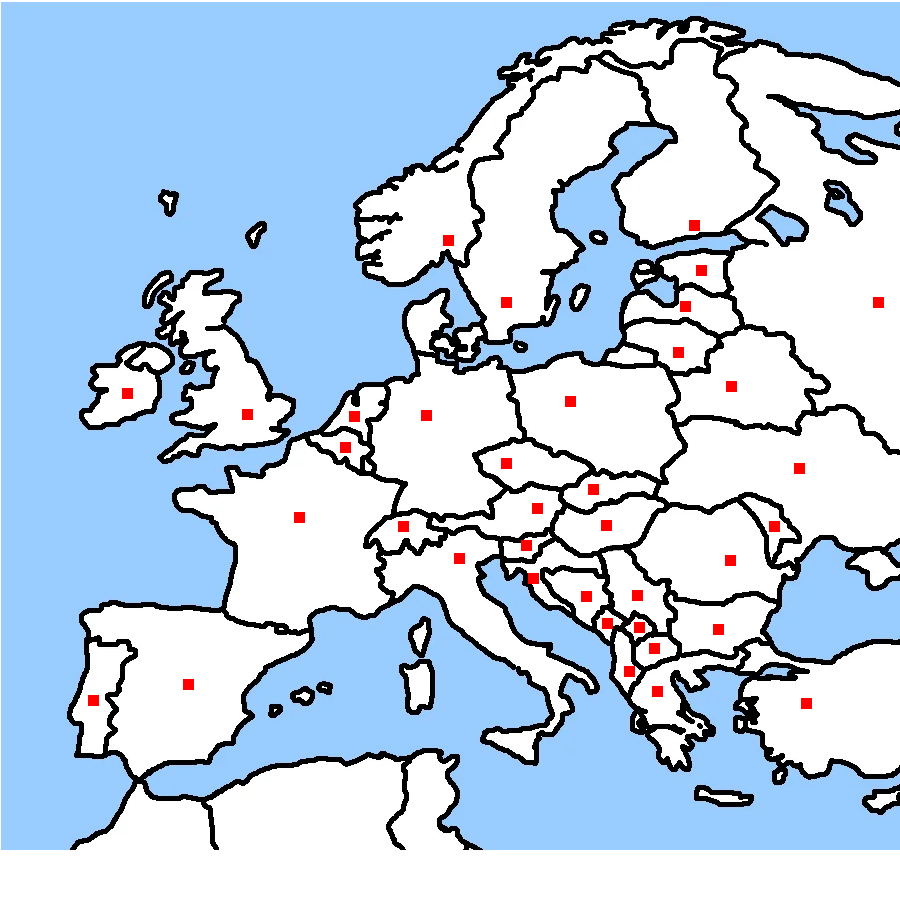
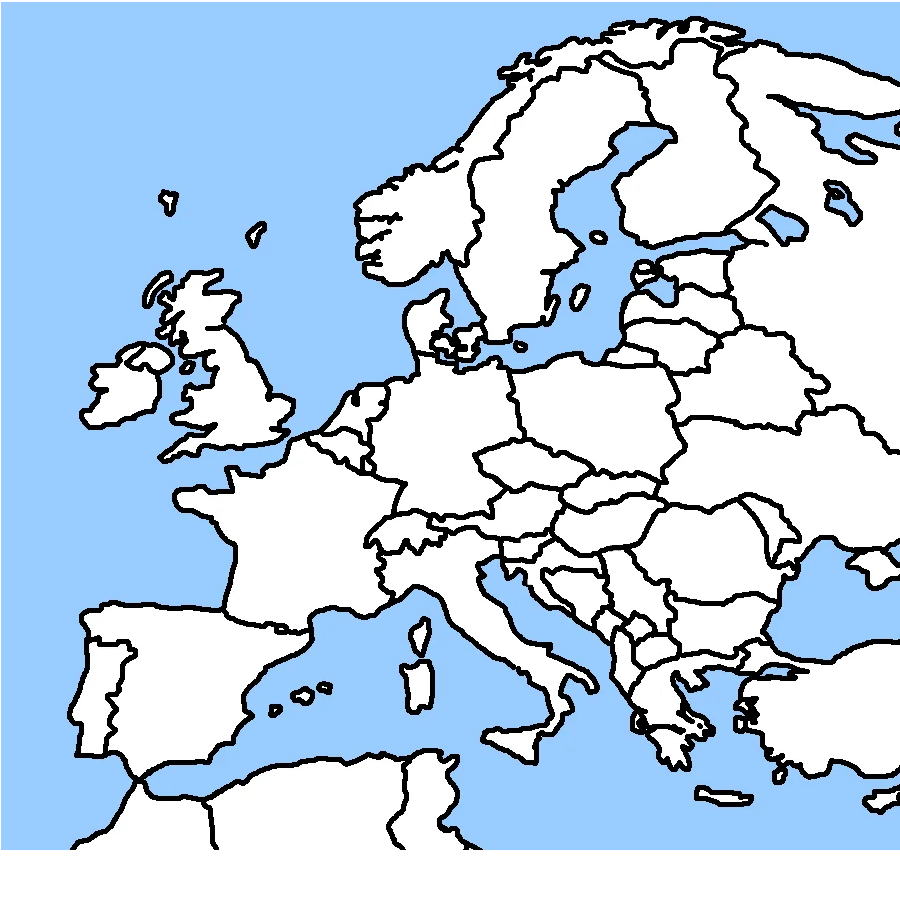
Highscore/dynamic drawing

diff --git a/FIND/FIND.cpp b/FIND/FIND.cpp
@@ -1,6 +1,6 @@
 // FIND.cpp : This file contains the 'main' function. Program execution begins and ends there.
 //
-                                             
+
 #include <SDL3/SDL.h>
 #include <SDL3_image/SDL_image.h>
 #include <SDL3_ttf/SDL_ttf.h>
@@ -31,7 +31,7 @@
 #pragma comment(lib, "ws2_32.lib")
 using namespace std;
 
-struct countryData{ //Each red rectangle is 11x11 pixels
+struct countryData { //Each red rectangle is 11x11 pixels
 	string name;
 	int x;
 	int y;
@@ -49,7 +49,8 @@ int main()
 	SDL_Color black = { 0, 0, 0, 0 };
 	SDL_Event event;
 	bool placeholderBool = false;
-	string peerIP;
+	int score=0;
+	int highScore;
 	if (!IsUserAnAdmin())
 	{
 		if (!RelaunchAsAdmin())TerminalError("RelaunchAsAdmin Error Exiting.....\n", GetConsoleWindow());
@@ -99,14 +100,21 @@ int main()
 		{"Moldova",769,521}
 	};
 
-	
+	cout << "Welcome!\n";
+	if (fileExists("Highscore.txt"))
+	{
+		cout << "Current Highscore:" << read_file_to_string("Highscore.txt") << endl;
+		highScore = stoi(read_file_to_string("Highscore.txt"));
+	}
 
+	else
+	{
+		cout << "No Highscore found, creating one new\n";
+		writeToFile("Highscore.txt", "0");
+		highScore = 0;
+	}
 
-	
-
-	
-	
-	if (SDL_Init(SDL_INIT_VIDEO) != true) TerminalError("SDL_INIT Error.->" + string(SDL_GetError()),consoleWindow);
+	if (SDL_Init(SDL_INIT_VIDEO) != true) TerminalError("SDL_INIT Error.->" + string(SDL_GetError()), consoleWindow);
 	if (TTF_Init() != true) TerminalError("TTF_INIT Error.->" + string(SDL_GetError()), consoleWindow);
 
 	SDL_Window* window = SDL_CreateWindow("SDL3 Window", 1000, 1000, NULL);
@@ -114,7 +122,7 @@ int main()
 	SDL_Renderer* renderer = SDL_CreateRenderer(window, NULL);
 	if (!renderer) TerminalError("SDL_CreateRenderer Error.->" + string(SDL_GetError()), consoleWindow);
 
-	SDL_Texture* chooseTexture = IMG_LoadTexture(renderer, "Choose_Mode.png"); 
+	SDL_Texture* chooseTexture = IMG_LoadTexture(renderer, "Choose_Mode.png");
 	if (!chooseTexture) TerminalError("IMG_LoadTexture Error. ->" + string(SDL_GetError()), consoleWindow);
 	SDL_RenderTexture(renderer, chooseTexture, 0, 0);
 	SDL_RenderPresent(renderer);
@@ -131,7 +139,7 @@ int main()
 
 
 				}
-				
+
 
 			}
 
@@ -140,64 +148,78 @@ int main()
 	}
 	if (Mode == 0)//country mode
 	{
-		
+
 		SDL_SetRenderDrawColor(renderer, 255, 255, 255, 0);
 		SDL_RenderClear(renderer);
 		SDL_Texture* europeMap = IMG_LoadTexture(renderer, "europe_map.png");
-		if(!europeMap)TerminalError("IMG_LoadTexture Error. ->" + string(SDL_GetError()), consoleWindow);
+		if (!europeMap)TerminalError("IMG_LoadTexture Error. ->" + string(SDL_GetError()), consoleWindow);
 		SDL_FRect Map_rect{ 100.0f,100.0f, 900.0f,900.0f };
-		while(true)
-		{ 
-			SDL_RenderClear(renderer);
-		SDL_RenderTexture(renderer, europeMap, 0, &Map_rect);
-		placeholderInt = random(0, 37);
-		TTF_Font* font = TTF_OpenFont("arial.ttf", 50); if (!font) {TerminalError("TTF_OpenFont Error.->" + string(SDL_GetError()), consoleWindow);}
-		SDL_Surface* countryTextSurface = TTF_RenderText_Solid(font, countries[placeholderInt].name.c_str(), countries[placeholderInt].name.length(), black); if (!countryTextSurface)TerminalError("TTF_RenderText_Solid Error.->" + string(SDL_GetError()), consoleWindow);
-		SDL_Texture* countryTextTexture = SDL_CreateTextureFromSurface(renderer, countryTextSurface); if (!countryTextTexture)TerminalError("SDL_CreateTextureFromSurface Error.->" + string(SDL_GetError()), consoleWindow);
-		SDL_FRect countryTextRect{ 5,5,countryTextSurface->w,countryTextSurface->h };
-		SDL_RenderTexture(renderer, countryTextTexture, 0, &countryTextRect);
-		SDL_RenderPresent(renderer);
-		placeholderBool = false;
-		while (!placeholderBool)
+		while (true)
 		{
-			while (SDL_PollEvent(&event))
+			SDL_SetRenderDrawColor(renderer, 255, 255, 255, 0);
+			SDL_RenderClear(renderer);
+			SDL_RenderTexture(renderer, europeMap, 0, &Map_rect);
+			placeholderInt = random(0, 37);
+			TTF_Font* font = TTF_OpenFont("arial.ttf", 50); if (!font) { TerminalError("TTF_OpenFont Error.->" + string(SDL_GetError()), consoleWindow); }
+			SDL_Surface* countryTextSurface = TTF_RenderText_Solid(font, countries[placeholderInt].name.c_str(), countries[placeholderInt].name.length(), black); if (!countryTextSurface)TerminalError("TTF_RenderText_Solid Error.->" + string(SDL_GetError()), consoleWindow);
+			SDL_Texture* countryTextTexture = SDL_CreateTextureFromSurface(renderer, countryTextSurface); if (!countryTextTexture)TerminalError("SDL_CreateTextureFromSurface Error.->" + string(SDL_GetError()), consoleWindow);
+			SDL_FRect countryTextRect{ 5,5,countryTextSurface->w,countryTextSurface->h };
+			SDL_RenderTexture(renderer, countryTextTexture, 0, &countryTextRect);
+			SDL_SetRenderDrawColor(renderer, 255, 0, 0, 255);
+			for (int i = 0; i < 38; ++i) {
+				SDL_FRect rect = {
+					static_cast<float>(countries[i].x + 100),
+					static_cast<float>(countries[i].y + 100),
+					11.0f,
+					11.0f
+				};
+				SDL_RenderFillRect(renderer, &rect);
+			}
+			SDL_RenderPresent(renderer);
+			placeholderBool = false;
+			while (!placeholderBool)
 			{
-				
-
-				if (event.type == SDL_EVENT_MOUSE_BUTTON_DOWN)
+				while (SDL_PollEvent(&event))
 				{
-					if (event.button.x > countries[placeholderInt].x + 100 && event.button.x < countries[placeholderInt].x + 100 + 11 && event.button.y > countries[placeholderInt].y + 100 && event.button.y < countries[placeholderInt].y + 100 + 11)
+
+
+					if (event.type == SDL_EVENT_MOUSE_BUTTON_DOWN)
 					{
-						cout << "Correct! You clicked at:" << event.button.x << "," << event.button.y << "\n";
-						placeholderBool = true;
-					
-					    
-					}
-					else
-					{
-						cout << "Wrong! You clicked at:" << event.button.x << "," << event.button.y << "\n";
+						if (event.button.x > countries[placeholderInt].x + 100 && event.button.x < countries[placeholderInt].x + 100 + 11 && event.button.y > countries[placeholderInt].y + 100 && event.button.y < countries[placeholderInt].y + 100 + 11)
+						{
+							cout << "Correct! You clicked at:" << event.button.x << "," << event.button.y << "\n";
+							placeholderBool = true;
+							score++;
+							if (score > highScore)
+							{
+								highScore = score;
+								writeToFile("Highscore.txt", to_string(highScore));
+								cout << "New Highscore: " << highScore << "\n";
+							}
+						}
+						else
+						{
+							cout << "Wrong! You clicked at:" << event.button.x << "," << event.button.y << "\n";
+
+						}
 
 					}
+
+
 
 				}
 
 
 
 			}
-		
-
-
-		}
 
 		}
 	}
 	SDL_DestroyWindow(window);
 	SDL_Quit();
 	TTF_Quit();
-	
-	
+
+
 
 	return 0;
 }
-
-

diff --git a/FIND/Header.cpp b/FIND/Header.cpp
@@ -48,8 +48,20 @@ bool RelaunchAsAdmin()
 }
 
 
+bool writeToFile(const std::string& filename, const std::string& content) {
+    std::ofstream outFile(filename, std::ios::trunc); // std::ios::trunc ensures overwrite
+    if (!outFile) {
+        return 0;
+    }
+    outFile << content;
+    outFile.close();
+    return 1;
+}
 
-
+bool fileExists(const std::string& filename) {
+    std::ifstream file(filename);
+    return file.good();
+}
 std::wstring getExecutablePath() {
     wchar_t buffer[MAX_PATH];
     DWORD length = GetModuleFileNameW(NULL, buffer, MAX_PATH);

diff --git a/FIND/Header.h b/FIND/Header.h
@@ -37,3 +37,5 @@ extern std::wstring getExecutablePath();
 extern std::string Wstring2String(const std::wstring& wstr);
 extern std::wstring getExecutableDir();
 extern bool RelaunchAsAdmin();
+extern bool writeToFile(const std::string& filename, const std::string& content);
+extern bool fileExists(const std::string& filename);
